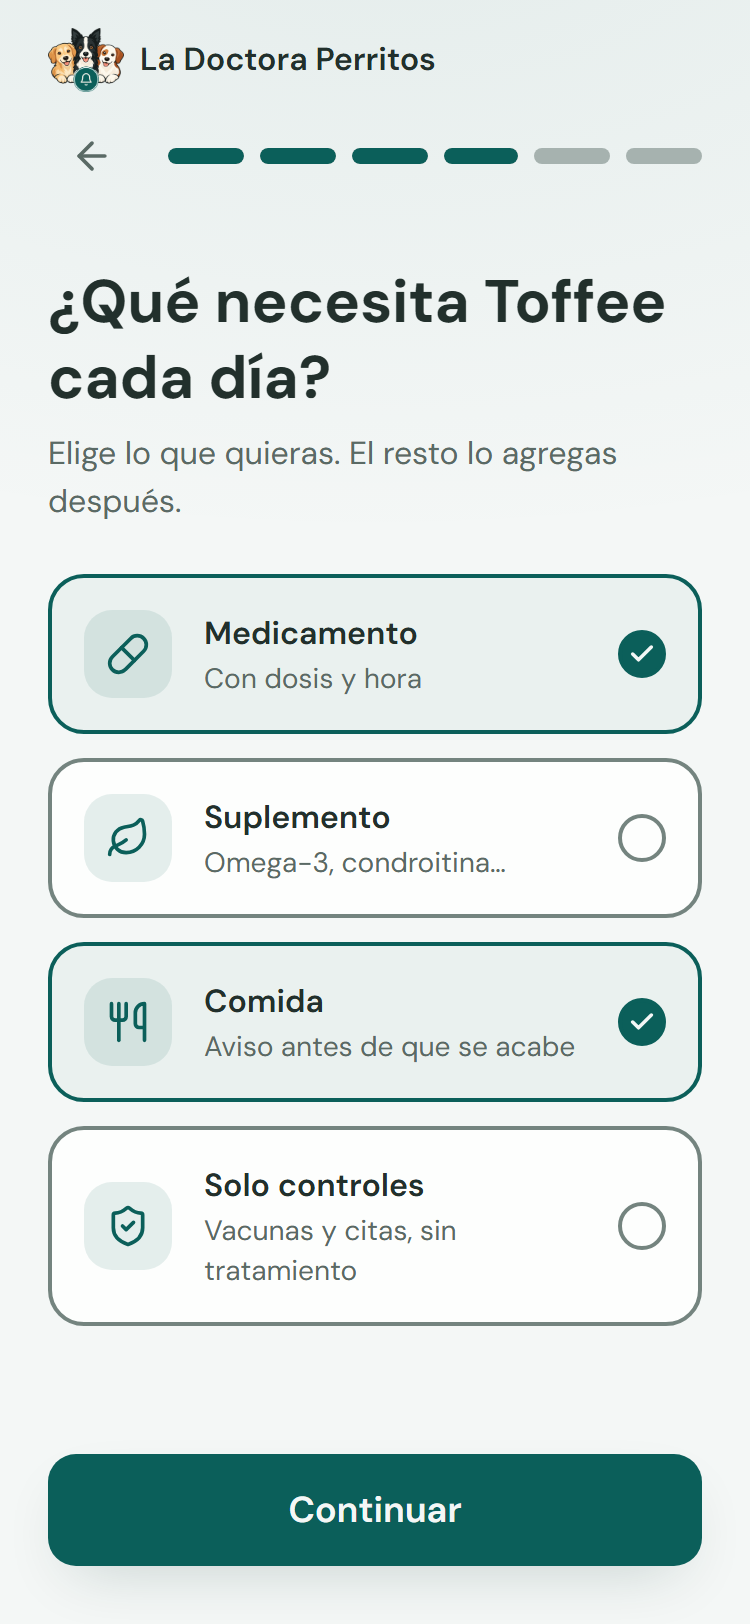
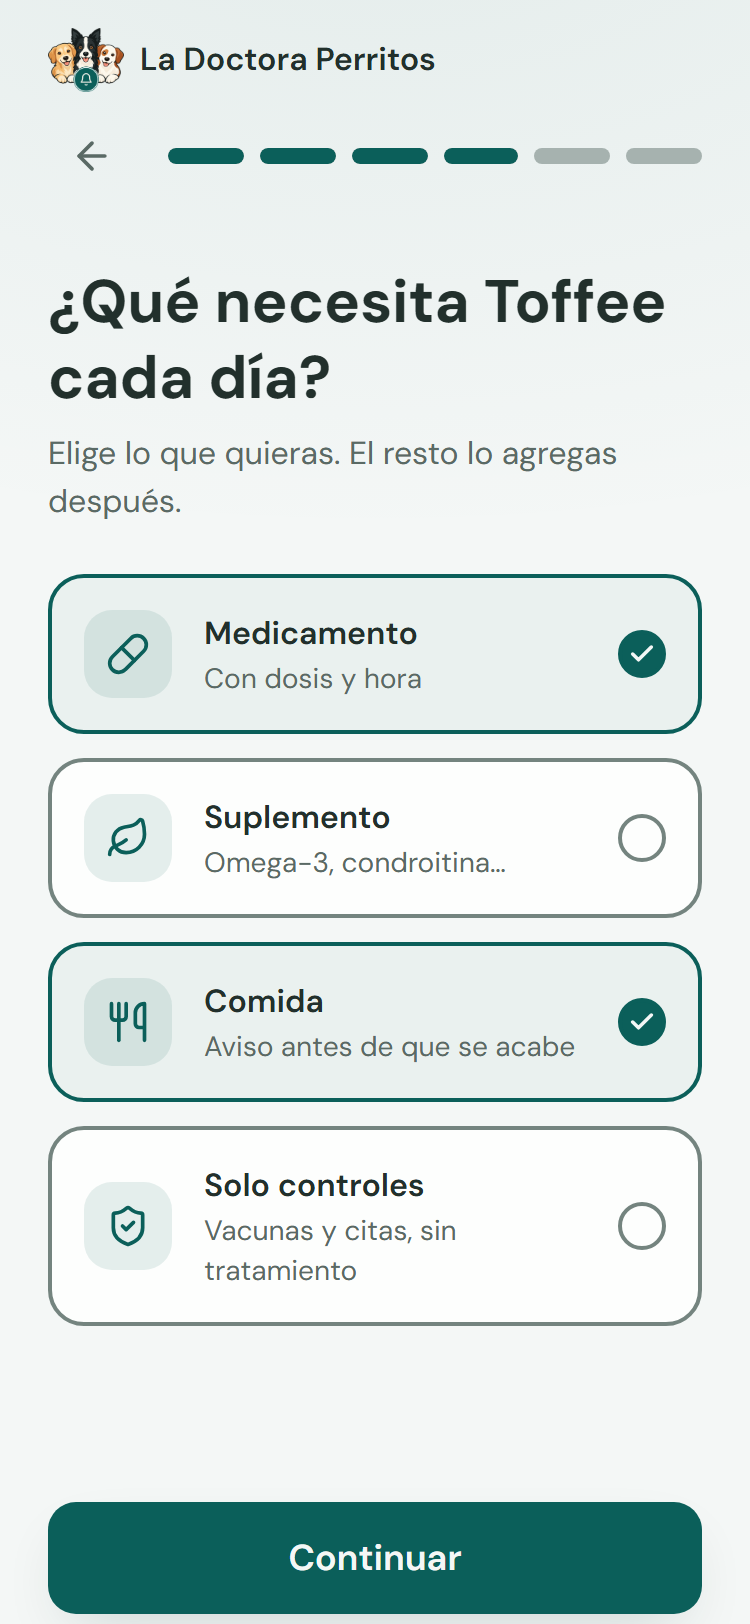
Onboarding: sin avance automático, ayuda de validación, foco visible

Changed region(s): [[0.0613, 0.8929, 0.9507, 1.0]]

diff --git a/components/onboarding/Onboarding.tsx b/components/onboarding/Onboarding.tsx
@@ -9,6 +9,7 @@ import Link from 'next/link';
 import { useRouter } from 'next/navigation';
 import { MotionConfig, motion, useReducedMotion } from 'motion/react';
 import {
+  AlertCircle,
   ArrowLeft,
   Check,
   Clock,
@@ -140,8 +141,6 @@ type Paso = 'nombre' | 'cantidad' | 'etapa' | 'cuidados' | 'cuidadores' | 'momen
 const PASOS: Paso[] = ['nombre', 'cantidad', 'etapa', 'cuidados', 'cuidadores', 'momento'];
 /** Solo estos se pueden saltar (no rompen el Panel). */
 const SALTABLES: Paso[] = ['etapa', 'cuidadores'];
-/** Las de una sola elección avanzan solas, con un respiro para ver la selección. */
-const AUTOAVANZAN: Paso[] = ['cantidad', 'etapa', 'cuidadores', 'momento'];
 type Fase = 'preguntas' | 'reconocimiento' | 'armando' | 'resultado';
 
 const AYUDA: Record<Paso, string> = {
@@ -191,7 +190,6 @@ const botonPrimario =
 export default function Onboarding() {
   const r = useRespuestas();
   const router = useRouter();
-  const reduce = useReducedMotion();
   const [fase, setFase] = useState<Fase>('preguntas');
   const [paso, setPaso] = useState(0);
   const [intento, setIntento] = useState(false);
@@ -245,15 +243,6 @@ export default function Onboarding() {
   const elegir = (parcial: Partial<Respuestas>) => {
     actualizar(parcial);
     setIntento(false);
-    if (AUTOAVANZAN.includes(actual) && !reduce) {
-      cancelarAvance();
-      const desde = pasoRef.current;
-      temporizador.current = setTimeout(() => {
-        if (pasoRef.current !== desde) return;
-        if (desde < PASOS.length - 1) irAlPaso(desde + 1);
-        else setFase('reconocimiento');
-      }, 320);
-    }
   };
   const atras = () => {
     if (fase === 'reconocimiento') {
@@ -379,9 +368,14 @@ export default function Onboarding() {
           )}
 
           <div className="mt-auto flex flex-col gap-2 pt-8">
-            <p id="ayuda" role="status" aria-live="polite" className="min-h-6 text-center text-base font-semibold text-[var(--text-primary)]">
-              {intento && !valido[actual] ? AYUDA[actual] : ''}
-            </p>
+            <div id="ayuda" role="status" aria-live="polite" className="min-h-12">
+              {intento && !valido[actual] && (
+                <p className="flex items-center gap-2 rounded-[var(--radius-button)] border-2 border-[var(--accent)] bg-[var(--surface)] px-3 py-2 text-base font-semibold">
+                  <AlertCircle size={20} color="var(--accent)" aria-hidden="true" />
+                  {AYUDA[actual]}
+                </p>
+              )}
+            </div>
             <button type="button" className={botonPrimario} onClick={continuar}>
               Continuar
             </button>
@@ -439,9 +433,9 @@ function Reconocimiento({
         <img src="/brand/perros-duotone.jpg" alt="Dos perros mirando a la cámara" width={900} height={360} />
       </div>
       <h1 tabIndex={-1} className="text-balance text-3xl font-bold leading-tight outline-none">
-        {nombre} tiene a alguien que quiere hacerlo <span className="text-[var(--accent)]">bien</span>
+        Cuidar a {nombre} no tiene que depender de tu <span className="text-[var(--accent)]">memoria</span>
       </h1>
-      <p className="text-lg text-[var(--text-secondary)]">Y no tienes que acordarte de todo tú solo: el Panel de Hoy lo hace contigo.</p>
+      <p className="text-lg text-[var(--text-secondary)]">Tú lo quieres hacer bien. El Panel de Hoy se acuerda contigo.</p>
 
       <ul aria-label="Tus respuestas" className="grid grid-cols-2 gap-2">
         {resumen(r).map((fila, i) => (
@@ -543,11 +537,13 @@ function Resultado({ nombre, r, entrada }: { nombre: string; r: Respuestas; entr
       <p className="text-sm font-semibold uppercase tracking-wider text-[var(--accent)]">Tu Panel de Hoy</p>
       <h1 tabIndex={-1} className="mt-1 text-3xl font-bold leading-tight outline-none">Hoy con {nombre}</h1>
       <p className="mt-2 text-base text-[var(--text-secondary)]">Toca un cuidado para marcarlo como hecho. Así se siente.</p>
-      {hechos.length > 0 && (
-        <motion.p initial={{ opacity: 0, y: 6 }} animate={{ opacity: 1, y: 0 }} className="mt-3 rounded-[var(--radius-button)] bg-[var(--chip-bg)] px-4 py-3 text-base font-semibold" role="status">
-          ¡Eso es! Así de simple queda el día de {nombre}.
-        </motion.p>
-      )}
+      <div className="mt-3 min-h-14" role="status" aria-live="polite">
+        {hechos.length > 0 && (
+          <motion.p initial={{ opacity: 0 }} animate={{ opacity: 1 }} className="rounded-[var(--radius-button)] bg-[var(--chip-bg)] px-4 py-3 text-base font-semibold">
+            ¡Eso es! Así de simple queda el día de {nombre}.
+          </motion.p>
+        )}
+      </div>
 
       <ul className="mt-6 flex flex-col gap-3">
         {items.map((it) => {

diff --git a/app/globals.css b/app/globals.css
@@ -42,3 +42,9 @@ body {
   opacity: 0.8;
   pointer-events: none;
 }
+
+/* Foco visible para teclado en todo control (WCAG 2.4.7). */
+:focus-visible {
+  outline: 3px solid var(--accent);
+  outline-offset: 2px;
+}

diff --git a/docs/revisiones/prev/onboarding-veredicto-ronda5.md b/docs/revisiones/prev/onboarding-veredicto-ronda5.md
@@ -1,0 +1,64 @@
+# VEREDICTO revisor-visual — Onboarding (La Doctora Perritos)
+Fecha: 2026-09-24 12:00
+Screenshot: docs/revisiones/onboarding-1-nombre.png (+ 1b, 2 a 9 en la misma carpeta, todos a 375px dpr 2)
+Usabilidad: 30/40
+Craft: 14/20
+Copy (si vende): N-A
+Fidelidad (si hubo referencia): N-A
+Veredicto: NO LISTA
+
+## Desglose usabilidad (suma 30)
+h1 estado del sistema: 3 · h2 lenguaje: 3 · h3 control y libertad: 3 · h4 consistencia: 3 · h5 prevención de errores: 3 · h6 reconocer vs recordar: 3 · h7 flexibilidad: 3 · h8 minimalismo: 3 · h9 errores claros: 3 · h10 ayuda contextual: 3
+(3+3+3+3+3+3+3+3+3+3 = 30)
+
+## Desglose craft (suma 14)
+jerarquía: 3 · profundidad: 3 · identidad: 2 · movimiento: 3 · encaje: 3
+(3+3+2+3+3 = 14)
+
+## Gate de carga cognitiva (2 fallas, bajo el umbral crítico de 4)
+- Listas ≤4 ítems: OK. Decisiones ≤4 opciones: OK. Una acción primaria por pantalla: OK. Campos: 1 por pantalla, OK.
+- FALLA: en «Reconocimiento» hay cinco tamaños de texto (3xl, lg, base, sm, más el botón lg) y 6 chips editables además del titular y la foto; es la pantalla más densa del flujo.
+- FALLA: «Resultado» con 3 filas de 2-4 líneas cada una + banner + nota + CTA; el usuario debe leer bastante para entender que puede tocar.
+- «Qué sigue» obvio: OK. Elementos falsamente interactivos: ninguno.
+
+## Contraste WCAG (cálculo sobre hex de tokens.css)
+- Texto blanco-hueso (--bg #F4F7F6) sobre CTA (--accent #0B5F5A): 6.96:1 OK.
+- --text-secondary #5A6A65 sobre --bg: 5.29:1 OK (sobre el degradé superior más oscuro ~4.9:1, OK).
+- --border-ui #74847F sobre --bg: 3.64:1; sobre --surface: 3.85:1 OK (1.4.11).
+- Acento sobre --surface (hora 19:00, edición): ~7.3:1 OK.
+- Segmentos de progreso vacíos (mezcla border-ui 55% / surface-2 ≈ #A7B4B0) sobre --bg: ≈1.99:1, bajo 3:1. Lo compensa el segmento lleno (≈3.5:1 contra el vacío), pero la pista vacía es tenue.
+- Áreas táctiles: opciones min-h 64px, Continuar 56px, Volver 44px, chips 56px, Saltar 48px, «Ver mi Panel ya» 44px: OK.
+- Foco: no hay :focus-visible global; solo «Saltar» lo define. Opciones y Continuar dependen del outline por defecto del navegador; el input usa outline-none y solo cambia el color del borde (gris 3.6:1 a teal).
+
+## Verificación en código
+- MotionConfig reducedMotion="user" envuelve todo: OK. Entrada escalonada de opciones (delay 0.05·i, 250ms): OK. Con movimiento reducido no hay avance automático (`!reduce`): OK.
+- Avance automático cancelable: se cancela con Volver, Saltar, Continuar, Editar, o al elegir otra opción; no hay cancelación explícita ni aviso de que avanzará solo. Es un cambio de contexto al seleccionar un radio (WCAG 3.2.2) sin advertencia previa.
+- Roles: radiogroup/radio y group/checkbox con aria-checked: OK, pero sin navegación por flechas (patrón radiogroup incompleto). role="status" para el mensaje de ayuda: OK. Foco al h1 al cambiar de paso: OK.
+- Botón Continuar siempre activo con ayuda: OK, implementado. La ayuda aparece a ~250 px del campo inválido, pegada al botón, sin color ni icono de error.
+- Progreso por etapas y checks de «Armando»: OK (barra 25/50/75/100 %, spinner→check por línea, «Ver mi Panel ya» como salida). Sin role progressbar en «Armando» (barra aria-hidden).
+- Micro-celebración: banner «¡Eso es!» + pulso de escala 1.15 del check, sin confeti ni springs grandes: cumple la ficha.
+- Movimiento baseline: entrada escalonada SÍ; conteo de números N/A (no hay número héroe); barra que se dibuja SÍ; tap con `active:scale-[.98]` pero con `transition-colors` (el escalado salta sin easing); transición entre pasos solo entra (sin salida); celebración leve SÍ.
+- Reglas de 02B: pregunta con razón-porque en cada subtítulo OK; registro después del valor OK; primera victoria activa OK; costo hundido (contarRespuestas) alimenta el paywall OK; etiquetado pre-paywall presente pero genérico («alguien que quiere hacerlo bien»), sin el dolor literal de la ficha (miedo a olvidar). Escalera con 6 preguntas frente al ESTADO.md («onboarding pide solo nombre + 1 cosa»): desvío de alcance no documentado.
+
+## Tabla pantalla → estado → defecto accionable
+| Pantalla | Estado | Defecto accionable |
+|---|---|---|
+| 1 nombre | ✅ (con reservas) | Ayuda «Escribe su nombre para seguir» queda lejos del campo y sin señal de error; ponerla bajo el input con borde/ícono de aviso. Sin `enterKeyHint="next"`. |
+| 1b nombre con ayuda | ❌ | El aviso está en el pie junto al botón, no en el campo; el usuario con teclado abierto puede no verlo. Moverlo al lado del input y color de error. |
+| 2 cantidad | ✅ | Los tres íconos son la misma huella: no aportan información. Usar 1/2/3 huellas o quitar. |
+| 3 etapa | ✅ | Ícono Adulto = huella genérica; Senior = reloj (no comunica edad). Cambiar por íconos que distingan etapas. |
+| 4 cuidados | ✅ | Multi-selección sin contador ni indicación visual distinta a la de radio (mismo círculo con check); usar casilla cuadrada para elección múltiple. |
+| 5 cuidadores | ✅ | Avanza sola en 320 ms sin aviso: un toque errado te saca de la pregunta. Mostrar la selección ≥600 ms o quitar el auto-avance. |
+| 6 momento | ✅ | La última pregunta avanza sola al reconocimiento; «Varias veces al día» guarda 08:00 sin decirlo. |
+| 7 reconocimiento | ❌ | Cinco tamaños de texto y 6 chips; titular con acento en «bien» (palabra sin valor) y sin el dolor literal de la ficha. Recortar a 3 tamaños y acentuar «Toffee» o «contigo». |
+| 8 armando | ✅ (con reservas) | «Ver mi Panel ya» queda entre la barra y los checks (orden ilógico) y la línea 3 dice «quién hizo qué» aunque eligió «Solo yo». Mover la salida debajo de la lista y condicionar la línea. |
+| 9 resultado | ❌ | Al marcar el primer cuidado aparece el banner y empuja toda la lista ~72 px: el objetivo táctil se mueve bajo el dedo. Reservar el espacio o mostrar el mensaje dentro de la fila. Además el CTA queda pegado al borde inferior (sin aire) y la fila 3 con 4 líneas se ve desigual. |
+
+## TOP 5 DEFECTOS
+1. [Resultado, banner «¡Eso es!»] Aparece tras el primer toque y desplaza toda la lista, moviendo los objetivos táctiles (y desaparece al desmarcar) → reservar altura fija o poner la confirmación dentro de la propia fila, sin cambiar el layout.
+2. [Pasos 2, 3, 5, 6, avance automático] Cambia de pantalla a los 320 ms de elegir, sin aviso ni forma explícita de cancelar (WCAG 3.2.2, mala tolerancia a toques erróneos) → quitar el auto-avance o alargarlo a ≥700 ms con indicador visible y «Cambiar» en la propia pantalla.
+3. [Pasos 1/1b, ayuda de validación] El aviso vive en el pie, ~250 px lejos del campo, sin color ni icono de error → renderizarlo directamente bajo el input con estilo de error y aria-describedby a ese nodo.
+4. [Identidad en pasos 2-6] Cinco de nueve pantallas son listas de tarjetas con íconos Lucide intercambiables con cualquier app; el duotone y el logo solo pesan en 1 y 7 → llevar el duotone o el trío de perros como detalle recurrente (fondo, ícono de opción, estado de «Armando») y usar íconos distintos por etapa/cantidad.
+5. [Reconocimiento, jerarquía y etiquetado] Cinco tamaños de texto + 6 chips, y el titular «tiene a alguien que quiere hacerlo bien» no usa el dolor literal del avatar ni etiqueta con identidad clara → reducir a titular / subtítulo / chips y reescribir con la frase de la ficha (miedo a olvidar → «no se te olvida nada»).
+
+Otros: pista de progreso vacía a ≈2:1; sin :focus-visible propio en opciones y Continuar; escalado del tap sin transición; desvío del alcance del ESTADO.md (6 preguntas vs «nombre + 1 cosa») sin documentar.
